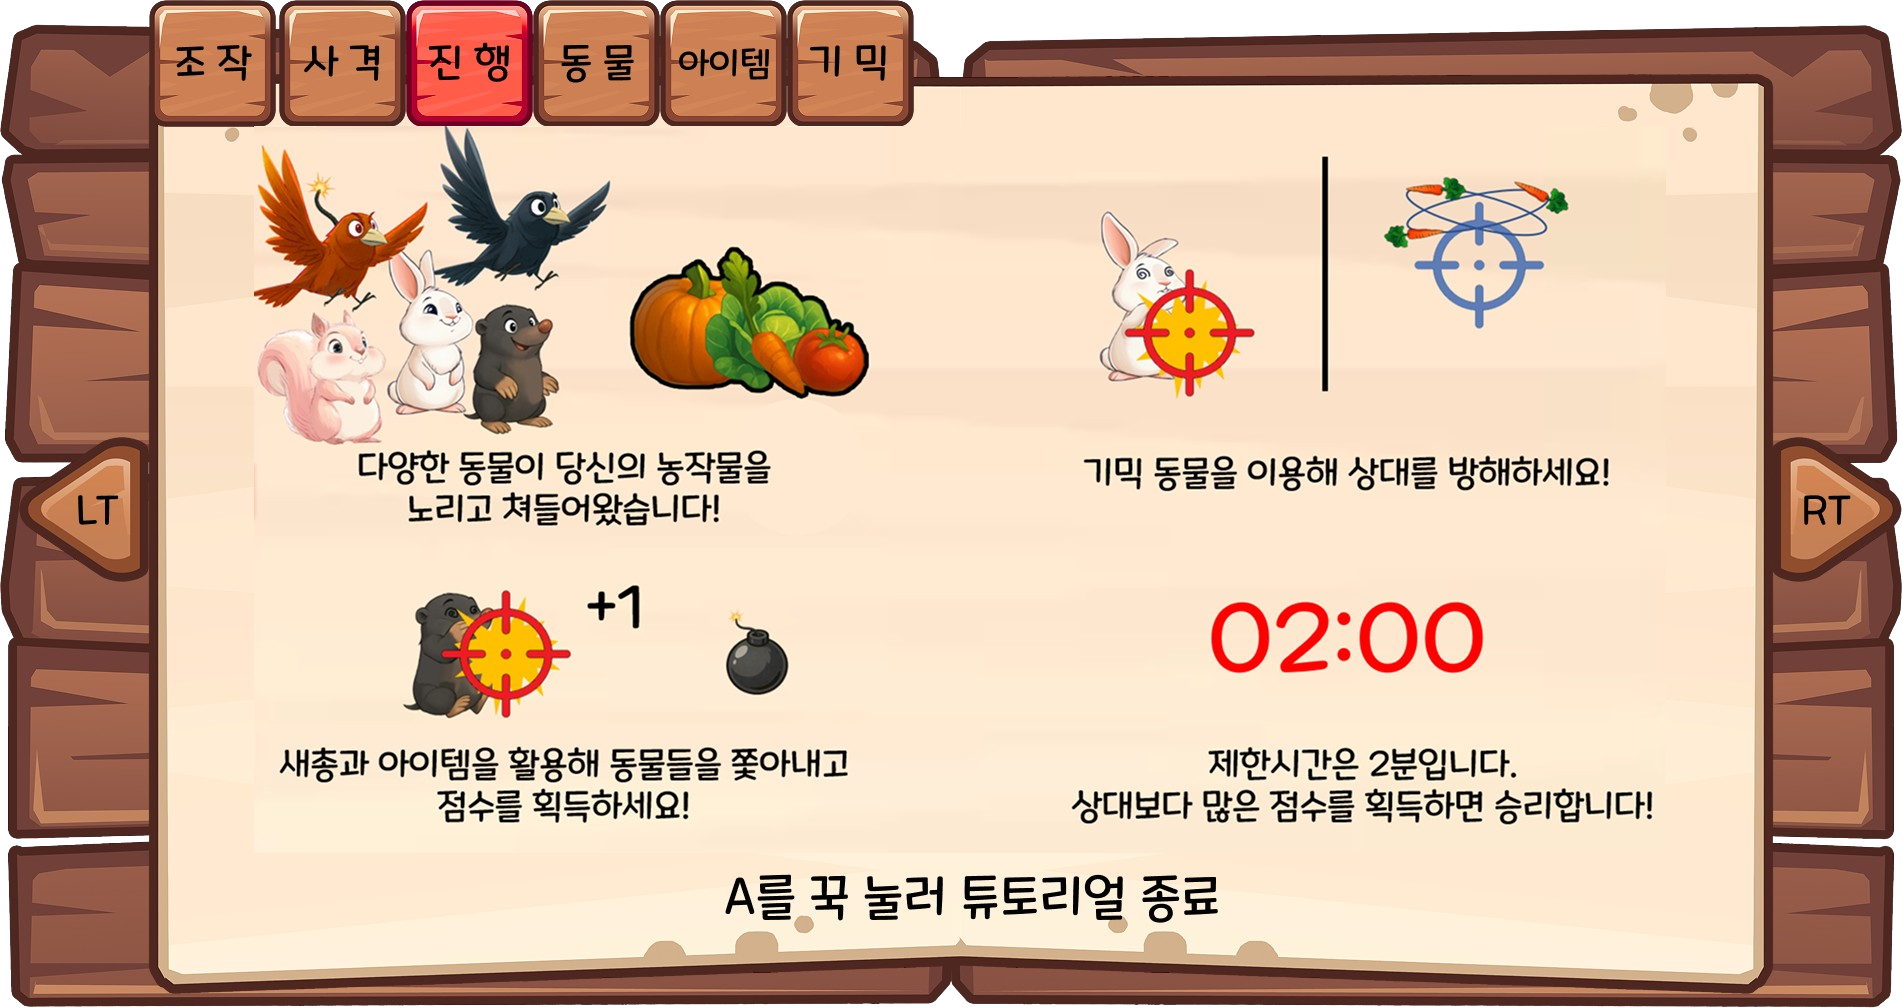
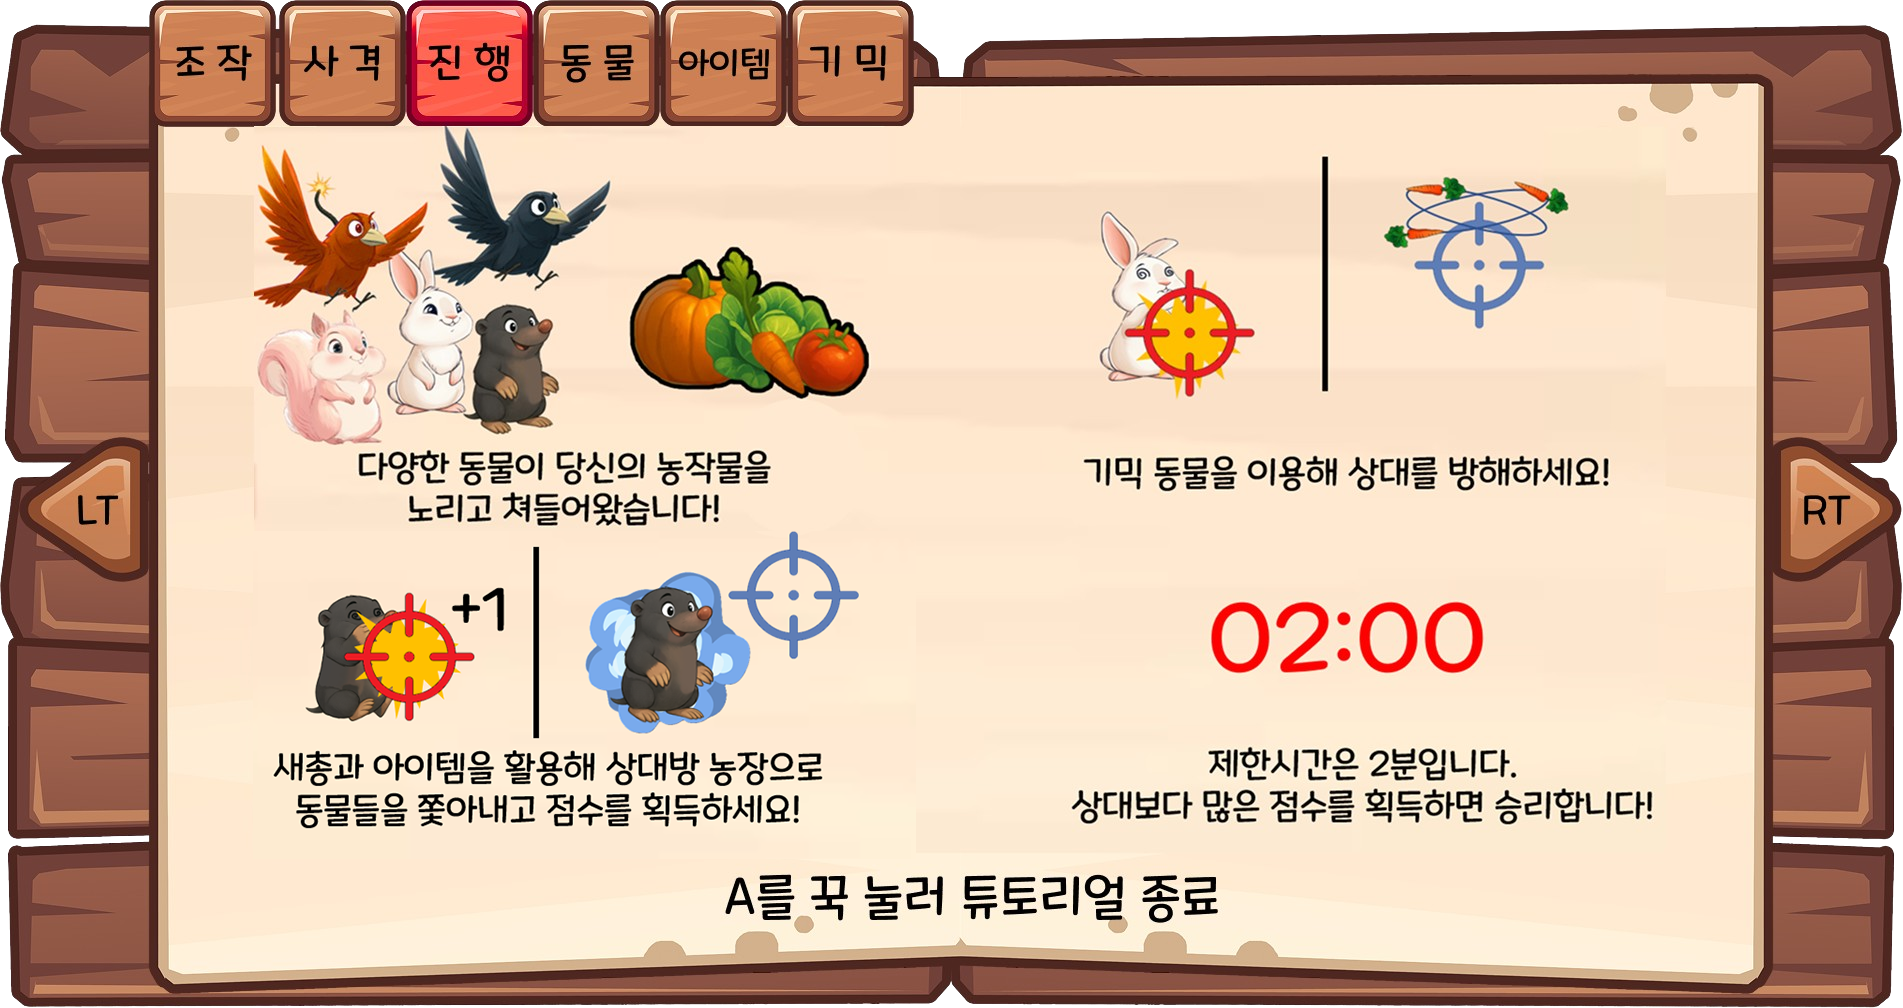
디펜스모드 농작물 추가, 스타트신 동물제작중

Changed region(s): [[0.124, 0.5228, 0.4651, 0.8304]]

diff --git a/GOTO_Game/src/component/GameManager2.cpp b/GOTO_Game/src/component/GameManager2.cpp
@@ -190,6 +190,35 @@ void GameManager2::Awake() {
 		wave3check->GetRectTransform()->SetAnchoredPosition({ Screen::GetWidth() * 0.58f, Screen::GetHeight() * 0.95f });
 		wave3check->SetSprite(L"../Resources/artResource/UI/Ingame/Wave 3 UI.png");
 
+		auto crop1object = new GameObject;
+		crop1 = crop1object->AddComponent<SpriteRenderer>();
+		crop1->GetTransform()->SetPosition({Screen::GetWidth()*(-0.3f), Screen::GetHeight()*(-0.35f)});
+		crop1->GetTransform()->SetLocalScale({1.0f,1.0f});
+		crop1->SetSprite(L"../Resources/artResource/Sprint/Vegetable1/Vegetable1_4.png");
+		crop1->SetRenderLayer(1 << 0);
+		crop14 = Resource::Load<Sprite>(L"../Resources/artResource/Sprint/Vegetable1/Vegetable1_4.png");
+		crop14->IncreaseRefCount();
+		crop13 = Resource::Load<Sprite>(L"../Resources/artResource/Sprint/Vegetable1/Vegetable1_3.png");
+		crop13->IncreaseRefCount();
+		crop12 = Resource::Load<Sprite>(L"../Resources/artResource/Sprint/Vegetable1/Vegetable1_2.png");
+		crop12->IncreaseRefCount();
+		crop11 = Resource::Load<Sprite>(L"../Resources/artResource/Sprint/Vegetable1/Vegetable1_1.png");
+		crop11->IncreaseRefCount();
+		auto crop2object = new GameObject;
+		crop2 = crop2object->AddComponent<SpriteRenderer>();
+		crop2->GetTransform()->SetPosition({ Screen::GetWidth() * 0.3f, Screen::GetHeight() * (-0.35f) });
+		crop2->GetTransform()->SetLocalScale({1.0f,1.0f});
+		crop2->SetSprite(L"../Resources/artResource/Sprint/Vegetable2/Vegetable2_4.png");
+		crop2->SetRenderLayer(1 << 0);
+		crop24 = Resource::Load<Sprite>(L"../Resources/artResource/Sprint/Vegetable2/Vegetable2_4.png");
+		crop24->IncreaseRefCount();
+		crop23 = Resource::Load<Sprite>(L"../Resources/artResource/Sprint/Vegetable2/Vegetable2_3.png");
+		crop23->IncreaseRefCount();
+		crop22 = Resource::Load<Sprite>(L"../Resources/artResource/Sprint/Vegetable2/Vegetable2_2.png");
+		crop22->IncreaseRefCount();
+		crop21 = Resource::Load<Sprite>(L"../Resources/artResource/Sprint/Vegetable2/Vegetable2_1.png");
+		crop21->IncreaseRefCount();
+
 		auto timeitem = new GameObject;
 		timeitem->GetTransform()->SetParent(canvas->GetTransform());
 		Timetext = timeitem->AddComponent<Text>();
@@ -233,6 +262,22 @@ void GameManager2::OnDestroy() {
 		wave2bar->DecreaseRefCount();
 	if (IsValidObject(wave3bar))
 		wave3bar->DecreaseRefCount();
+	if (IsValidObject(crop14))
+		crop14->DecreaseRefCount();
+	if (IsValidObject(crop13))
+		crop13->DecreaseRefCount();
+	if (IsValidObject(crop12))
+		crop12->DecreaseRefCount();
+	if (IsValidObject(crop11))
+		crop11->DecreaseRefCount();
+	if (IsValidObject(crop24))
+		crop24->DecreaseRefCount();
+	if (IsValidObject(crop23))
+		crop23->DecreaseRefCount();
+	if (IsValidObject(crop22))
+		crop22->DecreaseRefCount();
+	if (IsValidObject(crop21))
+		crop21->DecreaseRefCount();
 }
 
 void GameManager2::Update() {
@@ -389,7 +434,25 @@ void GameManager2::Update() {
 					warningsoundTiming[i] = -1.0f;
 				}
 			}
+			if (CropGauge == 8 || CropGauge == 7) {
+				crop1->SetSprite(crop14);
+				crop2->SetSprite(crop24);
+			}
+			if (CropGauge == 6 || CropGauge == 5) {
+				crop1->SetSprite(crop13);
+				crop2->SetSprite(crop23);
+			}
+			if (CropGauge == 4 || CropGauge == 3) {
+				crop1->SetSprite(crop12);
+				crop2->SetSprite(crop22);
+			}
+			if (CropGauge == 2 || CropGauge == 1) {
+				crop1->SetSprite(crop11);
+				crop2->SetSprite(crop21);
+			}
 			if (CropGauge == 0) {
+				crop1->SetSprite(nullptr);
+				crop2->SetSprite(nullptr);
 				GameTimer = 0.0f;
 			}
 			if (GameTimer <= 0.0f || INPUT_GET_KEYDOWN(KeyCode::Space)) {

diff --git a/GOTO_Game/inc/component/StartAnimal.h b/GOTO_Game/inc/component/StartAnimal.h
@@ -1,0 +1,30 @@
+#pragma once
+#include <ScriptBehaviour.h>
+#include <InputManager.h>
+#include <RenderManager.h>
+#include <SpriteRenderer.h>
+#include <Animator.h>
+#include "Screen.h"
+
+namespace GOTOEngine
+{
+	class StartAnimal : public ScriptBehaviour
+	{
+	private:
+		GameObject* crow1;
+		GameObject* crow2;
+		GameObject* mole;
+		Animator* crow;
+
+	public:
+		StartAnimal()
+		{
+			REGISTER_BEHAVIOUR_MESSAGE(Awake);
+			REGISTER_BEHAVIOUR_MESSAGE(OnDestroy);
+			REGISTER_BEHAVIOUR_MESSAGE(Update);
+		}
+		void Awake();
+		void Update();
+		void OnDestroy();
+	};
+}

diff --git a/GOTO_Game/inc/component/GameManager2.h b/GOTO_Game/inc/component/GameManager2.h
@@ -68,6 +68,17 @@ namespace GOTOEngine
 		float tutorialCheckTime = 0.0f;
 		TutorialImage2* Tutorial;
 
+		SpriteRenderer* crop1;
+		SpriteRenderer* crop2;
+		Sprite* crop14;
+		Sprite* crop13;
+		Sprite* crop12;
+		Sprite* crop11;
+		Sprite* crop24;
+		Sprite* crop23;
+		Sprite* crop22;
+		Sprite* crop21;
+
 	public:
     GameManager2()
     {
